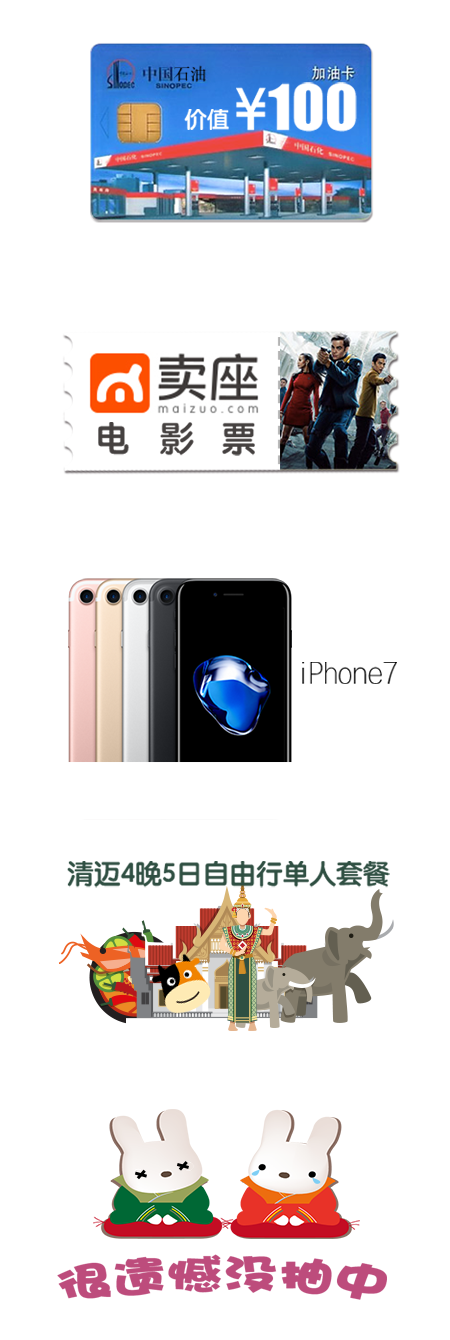
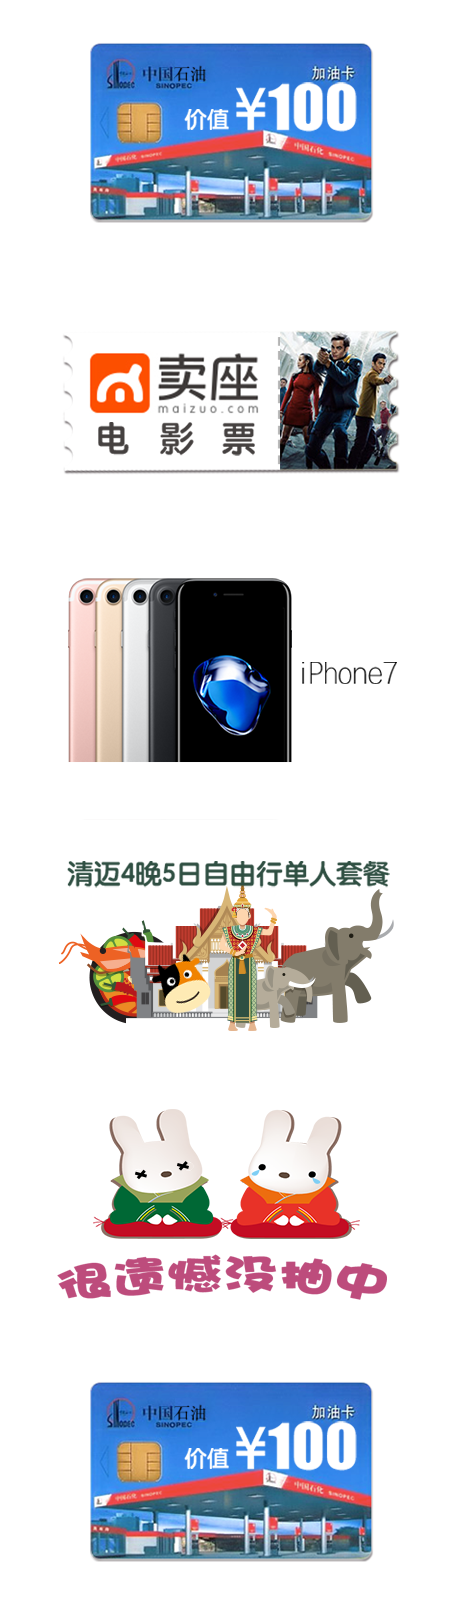
奖品图片

diff --git a/src/index.html b/src/index.html
@@ -23,7 +23,7 @@
             <div class="center">
                 <div class="floatTop marquee"><div  id="floatTop">iPhone7、清迈4晚5日自由行单人套餐、价值100元中石油加油卡、卖座网电影票、</div></div>
                 <div class="slot">
-                    <img src="img/prize.png" id="prize" />
+                    <img src="img/prize5.png" id="prize" />
                     <div class="cover"></div>
                 </div>
                 <div class="floatBottom marquee"><div id="floatBottom">恭喜：吴平gogogo 获得1个利息红包！   恭喜：吴平cc 获得2个利息红包！   恭喜：吴平vv 获得3个利息红包！   恭喜：吴平bb 获得4个利息红包！   </div></div>
